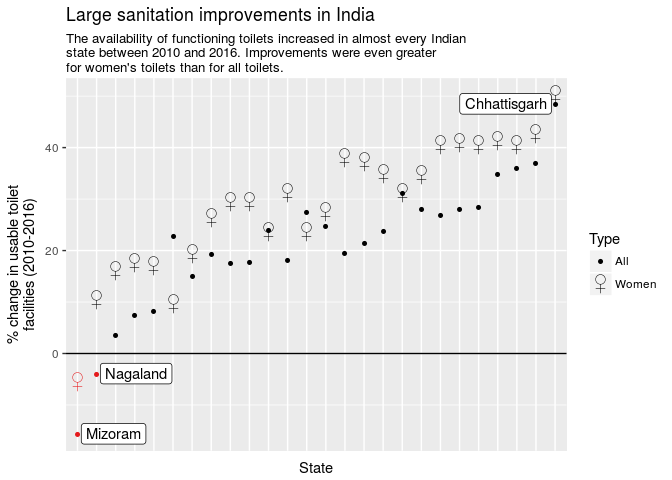
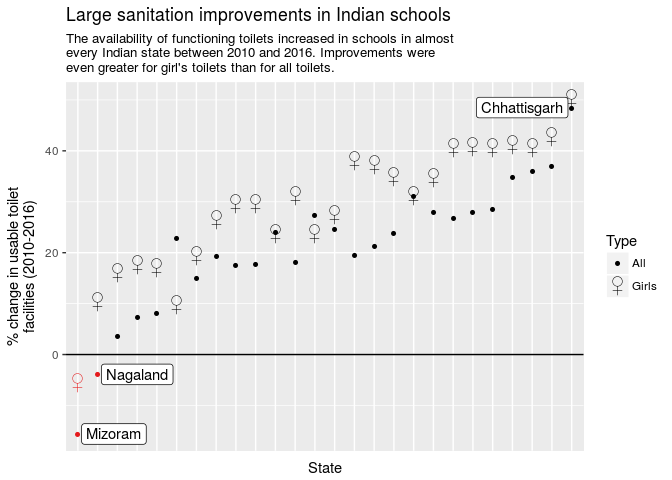
week 32: clarify that the toilets are specifically in schools

diff --git a/2017-week-32.md b/2017-week-32.md
@@ -1,7 +1,7 @@
-2017 week 32: Toilets in India
+2017 week 32: Toilets in Indian schools
 ================
 
-It's week 31 of [Makeover Monday](http://www.makeovermonday.co.uk/data/) 2017. The data is about access to sanitation in India and comes from the [Annual Status of Education Report](http://www.asercentre.org/p/289.html).
+It's week 31 of [Makeover Monday](http://www.makeovermonday.co.uk/data/) 2017. The data is about access to sanitation in Indian schools and comes from the [Annual Status of Education Report](http://www.asercentre.org/p/289.html).
 
     ## Warning: Removed 18 rows containing missing values (geom_point).
 
@@ -17,15 +17,15 @@ It's week 31 of [Makeover Monday](http://www.makeovermonday.co.uk/data/) 2017. T
 
 ![](2017-week-32_files/figure-markdown_github/unnamed-chunk-1-2.png)
 
-In general there has been improvement in the percent of toilets that are working since 2010. In addition, the difference between all usable toilets and usable toilets for women has generally declined since then, meaning that the states are approaching parity between usable toilets for men and women.
+In general there has been improvement in the percent of toilets that are working since 2010. In addition, the difference between all usable toilets and usable toilets for girls has generally declined since then, meaning that the states are approaching parity between usable toilets for boys and girls.
 
 ![](2017-week-32_files/figure-markdown_github/unnamed-chunk-2-1.png)
 
-Looking just at the states with data for 2010 and 2016, almost every single state has improved the state of their toilets.
+Looking just at the states with data for 2010 and 2016, almost every single state has improved the state of their toilets in schools.
 
 ![](2017-week-32_files/figure-markdown_github/unnamed-chunk-3-1.png)![](2017-week-32_files/figure-markdown_github/unnamed-chunk-3-2.png)![](2017-week-32_files/figure-markdown_github/unnamed-chunk-3-3.png)
 
-All states except for 2 made improvements in sanitation. One of the two states saw regression in both all toilets and toilets for women. The other state only saw regression in overall toilets, but saw improvement in toilets for women.
+All states except for 2 made improvements in sanitation. One of the two states saw regression in both all toilets and toilets for girls. The other state only saw regression in overall toilets, but saw improvement in toilets for girls.
 
 There was a negative or flat correlation between the percent of usable toilets in 2010 and the improvement seen between 2010 and 2016. There was a positive correlation between the percent of usable toilets in 2016 and the improvement seen between 2010 and 2016. The latter observation makes sense given that the value in 2016 depends in part on the improvement over that period.
 
